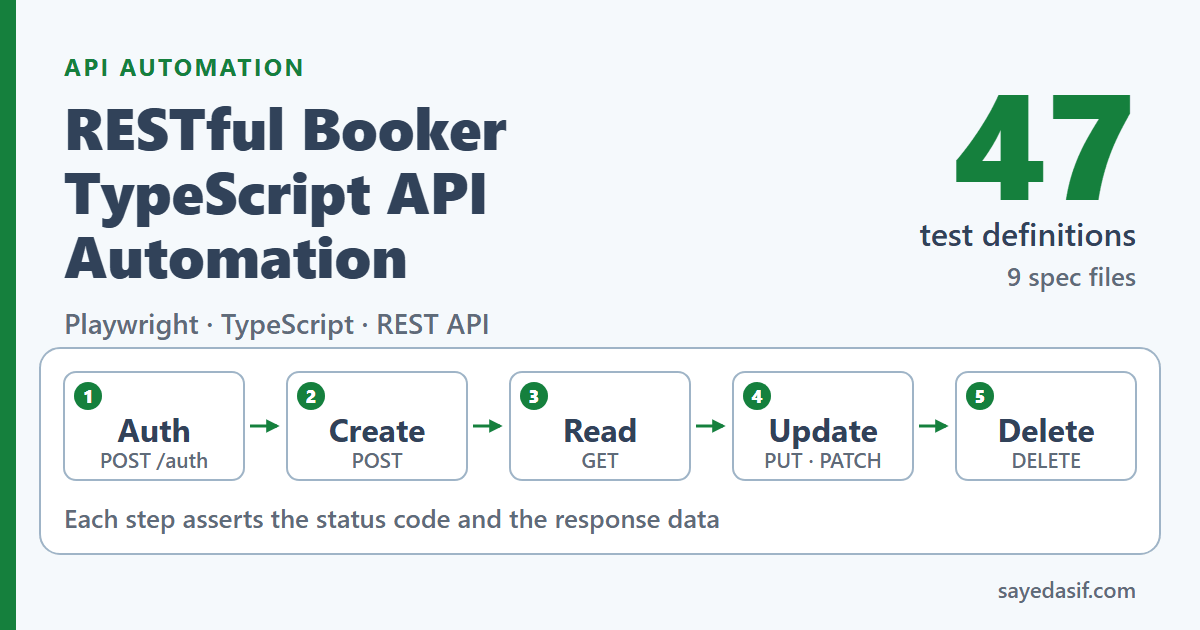
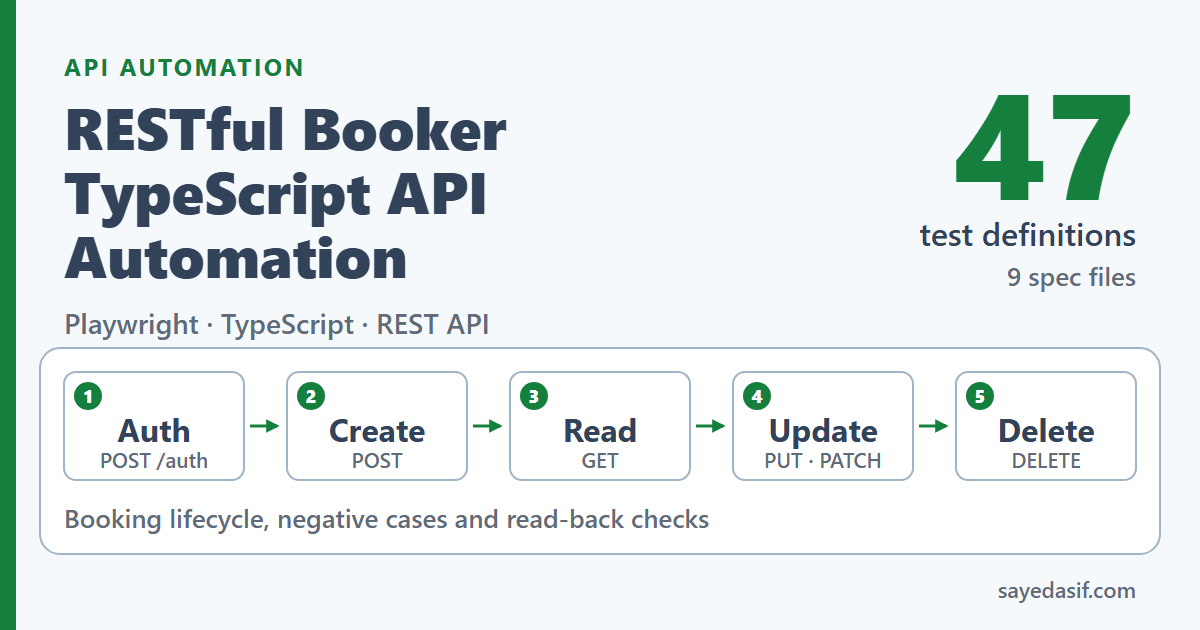
content: fix RESTful Booker cover caption; title and date consistency

Changed region(s): [[0.0617, 0.8143, 0.6167, 0.8444]]

diff --git a/projects/restful-booker-api-automation/index.html b/projects/restful-booker-api-automation/index.html
@@ -764,7 +764,7 @@
 .cv-restful-booker.cv-wide .title{font-size:58px;font-weight:800}.cv-restful-booker.cv-wide .count{fill:var(--cv-accent);font-size:150px;font-weight:800}
 .cv-restful-booker.cv-wide .countl{font-size:32px}.cv-restful-booker.cv-wide .sub{font-size:26px}.cv-restful-booker.cv-wide .stack{font-size:28px}.cv-restful-booker.cv-wide .cap{font-size:26px}.cv-restful-booker.cv-wide .dom{font-size:22px}
 .cv-restful-booker.cv-wide .nl{font-size:32px;font-weight:700}.cv-restful-booker.cv-wide .ns{font-size:21px}
-@container (max-width:559px){.cv-restful-booker.cv-wide{display:none}}</style><defs><marker id="cv-restful-booker-wide-a" viewBox="0 0 10 10" refX="8" refY="5" markerWidth="4.5" markerHeight="4.5" orient="auto"><path class="head" d="M0 0L10 5L0 10z"/></marker></defs><rect class="bg" width="1200" height="630"/><rect class="stripe" width="16" height="630"/><text class="eyebrow" x="64" y="76">API AUTOMATION</text><text class="title" x="64" y="150">RESTful Booker</text><text class="title" x="64" y="214">TypeScript API</text><text class="title" x="64" y="278">Automation</text><text class="stack mute" x="64" y="334">Playwright · TypeScript · REST API</text><text class="count" x="1136" y="200" text-anchor="end">47</text><text class="countl" x="1136" y="246" text-anchor="end">test definitions</text><text class="sub mute" x="1136" y="286" text-anchor="end">9 spec files</text><rect class="panel" x="40" y="348" width="1120" height="206" rx="20"/><rect class="node" x="64" y="372" width="180" height="108" rx="12"/><circle class="badge" cx="88" cy="396" r="14"/><text class="num" x="88" y="396" text-anchor="middle" dominant-baseline="central">1</text><text class="nl" x="154" y="442" text-anchor="middle">Auth</text><text class="ns mute" x="154" y="468" text-anchor="middle">POST /auth</text><path class="arrow" d="M250 426H277" marker-end="url(#cv-restful-booker-wide-a)"/><rect class="node" x="287" y="372" width="180" height="108" rx="12"/><circle class="badge" cx="311" cy="396" r="14"/><text class="num" x="311" y="396" text-anchor="middle" dominant-baseline="central">2</text><text class="nl" x="377" y="442" text-anchor="middle">Create</text><text class="ns mute" x="377" y="468" text-anchor="middle">POST</text><path class="arrow" d="M473 426H500" marker-end="url(#cv-restful-booker-wide-a)"/><rect class="node" x="510" y="372" width="180" height="108" rx="12"/><circle class="badge" cx="534" cy="396" r="14"/><text class="num" x="534" y="396" text-anchor="middle" dominant-baseline="central">3</text><text class="nl" x="600" y="442" text-anchor="middle">Read</text><text class="ns mute" x="600" y="468" text-anchor="middle">GET</text><path class="arrow" d="M696 426H723" marker-end="url(#cv-restful-booker-wide-a)"/><rect class="node" x="733" y="372" width="180" height="108" rx="12"/><circle class="badge" cx="757" cy="396" r="14"/><text class="num" x="757" y="396" text-anchor="middle" dominant-baseline="central">4</text><text class="nl" x="823" y="442" text-anchor="middle">Update</text><text class="ns mute" x="823" y="468" text-anchor="middle">PUT · PATCH</text><path class="arrow" d="M919 426H946" marker-end="url(#cv-restful-booker-wide-a)"/><rect class="node" x="956" y="372" width="180" height="108" rx="12"/><circle class="badge" cx="980" cy="396" r="14"/><text class="num" x="980" y="396" text-anchor="middle" dominant-baseline="central">5</text><text class="nl" x="1046" y="442" text-anchor="middle">Delete</text><text class="ns mute" x="1046" y="468" text-anchor="middle">DELETE</text><text class="cap mute" x="64" y="528">Each step asserts the status code and the response data</text><text class="dom mute" x="1136" y="598" text-anchor="end">sayedasif.com</text></svg><svg class="cv cv-restful-booker cv-narrow" viewBox="0 0 640 604" role="img" aria-labelledby="cv-restful-booker-narrow-t cv-restful-booker-narrow-d" xmlns="http://www.w3.org/2000/svg" focusable="false"><title id="cv-restful-booker-narrow-t">RESTful Booker TypeScript API Automation: project cover</title><desc id="cv-restful-booker-narrow-d">Cover for RESTful Booker TypeScript API Automation: 47 test definitions (9 spec files). Booking lifecycle covered by the suite: authenticate, create, read, update with PUT and PATCH, delete. Built with Playwright, TypeScript, REST API.</desc><style>:where(.cv){font-family:Inter,"Segoe UI",Roboto,Helvetica,Arial,sans-serif;--cv-bg:#f5f9fc;--cv-card:#fff;--cv-line:#9fb4c7;--cv-fg:#314259;--cv-mute:#5f6b79;--cv-on:#fff}
+@container (max-width:559px){.cv-restful-booker.cv-wide{display:none}}</style><defs><marker id="cv-restful-booker-wide-a" viewBox="0 0 10 10" refX="8" refY="5" markerWidth="4.5" markerHeight="4.5" orient="auto"><path class="head" d="M0 0L10 5L0 10z"/></marker></defs><rect class="bg" width="1200" height="630"/><rect class="stripe" width="16" height="630"/><text class="eyebrow" x="64" y="76">API AUTOMATION</text><text class="title" x="64" y="150">RESTful Booker</text><text class="title" x="64" y="214">TypeScript API</text><text class="title" x="64" y="278">Automation</text><text class="stack mute" x="64" y="334">Playwright · TypeScript · REST API</text><text class="count" x="1136" y="200" text-anchor="end">47</text><text class="countl" x="1136" y="246" text-anchor="end">test definitions</text><text class="sub mute" x="1136" y="286" text-anchor="end">9 spec files</text><rect class="panel" x="40" y="348" width="1120" height="206" rx="20"/><rect class="node" x="64" y="372" width="180" height="108" rx="12"/><circle class="badge" cx="88" cy="396" r="14"/><text class="num" x="88" y="396" text-anchor="middle" dominant-baseline="central">1</text><text class="nl" x="154" y="442" text-anchor="middle">Auth</text><text class="ns mute" x="154" y="468" text-anchor="middle">POST /auth</text><path class="arrow" d="M250 426H277" marker-end="url(#cv-restful-booker-wide-a)"/><rect class="node" x="287" y="372" width="180" height="108" rx="12"/><circle class="badge" cx="311" cy="396" r="14"/><text class="num" x="311" y="396" text-anchor="middle" dominant-baseline="central">2</text><text class="nl" x="377" y="442" text-anchor="middle">Create</text><text class="ns mute" x="377" y="468" text-anchor="middle">POST</text><path class="arrow" d="M473 426H500" marker-end="url(#cv-restful-booker-wide-a)"/><rect class="node" x="510" y="372" width="180" height="108" rx="12"/><circle class="badge" cx="534" cy="396" r="14"/><text class="num" x="534" y="396" text-anchor="middle" dominant-baseline="central">3</text><text class="nl" x="600" y="442" text-anchor="middle">Read</text><text class="ns mute" x="600" y="468" text-anchor="middle">GET</text><path class="arrow" d="M696 426H723" marker-end="url(#cv-restful-booker-wide-a)"/><rect class="node" x="733" y="372" width="180" height="108" rx="12"/><circle class="badge" cx="757" cy="396" r="14"/><text class="num" x="757" y="396" text-anchor="middle" dominant-baseline="central">4</text><text class="nl" x="823" y="442" text-anchor="middle">Update</text><text class="ns mute" x="823" y="468" text-anchor="middle">PUT · PATCH</text><path class="arrow" d="M919 426H946" marker-end="url(#cv-restful-booker-wide-a)"/><rect class="node" x="956" y="372" width="180" height="108" rx="12"/><circle class="badge" cx="980" cy="396" r="14"/><text class="num" x="980" y="396" text-anchor="middle" dominant-baseline="central">5</text><text class="nl" x="1046" y="442" text-anchor="middle">Delete</text><text class="ns mute" x="1046" y="468" text-anchor="middle">DELETE</text><text class="cap mute" x="64" y="528">Booking lifecycle, negative cases and read-back checks</text><text class="dom mute" x="1136" y="598" text-anchor="end">sayedasif.com</text></svg><svg class="cv cv-restful-booker cv-narrow" viewBox="0 0 640 604" role="img" aria-labelledby="cv-restful-booker-narrow-t cv-restful-booker-narrow-d" xmlns="http://www.w3.org/2000/svg" focusable="false"><title id="cv-restful-booker-narrow-t">RESTful Booker TypeScript API Automation: project cover</title><desc id="cv-restful-booker-narrow-d">Cover for RESTful Booker TypeScript API Automation: 47 test definitions (9 spec files). Booking lifecycle covered by the suite: authenticate, create, read, update with PUT and PATCH, delete. Built with Playwright, TypeScript, REST API.</desc><style>:where(.cv){font-family:Inter,"Segoe UI",Roboto,Helvetica,Arial,sans-serif;--cv-bg:#f5f9fc;--cv-card:#fff;--cv-line:#9fb4c7;--cv-fg:#314259;--cv-mute:#5f6b79;--cv-on:#fff}
 :where(.cv-restful-booker){--cv-accent:#15803d;--cv-soft:#dcfce7}
 @supports (color:light-dark(#000,#fff)){:where(.cv){--cv-bg:light-dark(#f5f9fc,#0f1b2d);--cv-card:light-dark(#fff,#17263b);--cv-line:light-dark(#9fb4c7,#5a7596);--cv-fg:light-dark(#314259,#e8eef5);--cv-mute:light-dark(#5f6b79,#a9b8c9);--cv-on:light-dark(#fff,#0f1b2d)}:where(.cv-restful-booker){--cv-accent:light-dark(#15803d,#4ade80);--cv-soft:light-dark(#dcfce7,#10331f)}}
 .cv-restful-booker.cv-narrow{display:block;width:100%;height:auto}
@@ -1068,7 +1068,7 @@
                         </li>
                         <li style="padding: 8px 0; padding-left: 28px; position: relative; color: var(--text);">
                             <span aria-hidden="true" style="position: absolute; left: 0; color: var(--brand-accent-text); font-weight: 800;">✓</span>
-                            <strong>Meaningful Assertions</strong> — Status codes, structure, data, persistence validation
+                            <strong>Assertions</strong> — Status codes, response fields and a read-back after writes. Three negative tests cannot fail and the delete test checks only that the reply is truthy (see Negative Testing below).
                         </li>
                     </ul>
                 </div>

diff --git a/index.html b/index.html
@@ -1181,7 +1181,7 @@
 .cv-restful-booker.cv-wide .title{font-size:58px;font-weight:800}.cv-restful-booker.cv-wide .count{fill:var(--cv-accent);font-size:150px;font-weight:800}
 .cv-restful-booker.cv-wide .countl{font-size:32px}.cv-restful-booker.cv-wide .sub{font-size:26px}.cv-restful-booker.cv-wide .stack{font-size:28px}.cv-restful-booker.cv-wide .cap{font-size:26px}.cv-restful-booker.cv-wide .dom{font-size:22px}
 .cv-restful-booker.cv-wide .nl{font-size:32px;font-weight:700}.cv-restful-booker.cv-wide .ns{font-size:21px}
-@container (max-width:559px){.cv-restful-booker.cv-wide{display:none}}</style><defs><marker id="cv-restful-booker-wide-a" viewBox="0 0 10 10" refX="8" refY="5" markerWidth="4.5" markerHeight="4.5" orient="auto"><path class="head" d="M0 0L10 5L0 10z"/></marker></defs><rect class="bg" width="1200" height="630"/><rect class="stripe" width="16" height="630"/><text class="eyebrow" x="64" y="76">API AUTOMATION</text><text class="title" x="64" y="150">RESTful Booker</text><text class="title" x="64" y="214">TypeScript API</text><text class="title" x="64" y="278">Automation</text><text class="stack mute" x="64" y="334">Playwright · TypeScript · REST API</text><text class="count" x="1136" y="200" text-anchor="end">47</text><text class="countl" x="1136" y="246" text-anchor="end">test definitions</text><text class="sub mute" x="1136" y="286" text-anchor="end">9 spec files</text><rect class="panel" x="40" y="348" width="1120" height="206" rx="20"/><rect class="node" x="64" y="372" width="180" height="108" rx="12"/><circle class="badge" cx="88" cy="396" r="14"/><text class="num" x="88" y="396" text-anchor="middle" dominant-baseline="central">1</text><text class="nl" x="154" y="442" text-anchor="middle">Auth</text><text class="ns mute" x="154" y="468" text-anchor="middle">POST /auth</text><path class="arrow" d="M250 426H277" marker-end="url(#cv-restful-booker-wide-a)"/><rect class="node" x="287" y="372" width="180" height="108" rx="12"/><circle class="badge" cx="311" cy="396" r="14"/><text class="num" x="311" y="396" text-anchor="middle" dominant-baseline="central">2</text><text class="nl" x="377" y="442" text-anchor="middle">Create</text><text class="ns mute" x="377" y="468" text-anchor="middle">POST</text><path class="arrow" d="M473 426H500" marker-end="url(#cv-restful-booker-wide-a)"/><rect class="node" x="510" y="372" width="180" height="108" rx="12"/><circle class="badge" cx="534" cy="396" r="14"/><text class="num" x="534" y="396" text-anchor="middle" dominant-baseline="central">3</text><text class="nl" x="600" y="442" text-anchor="middle">Read</text><text class="ns mute" x="600" y="468" text-anchor="middle">GET</text><path class="arrow" d="M696 426H723" marker-end="url(#cv-restful-booker-wide-a)"/><rect class="node" x="733" y="372" width="180" height="108" rx="12"/><circle class="badge" cx="757" cy="396" r="14"/><text class="num" x="757" y="396" text-anchor="middle" dominant-baseline="central">4</text><text class="nl" x="823" y="442" text-anchor="middle">Update</text><text class="ns mute" x="823" y="468" text-anchor="middle">PUT · PATCH</text><path class="arrow" d="M919 426H946" marker-end="url(#cv-restful-booker-wide-a)"/><rect class="node" x="956" y="372" width="180" height="108" rx="12"/><circle class="badge" cx="980" cy="396" r="14"/><text class="num" x="980" y="396" text-anchor="middle" dominant-baseline="central">5</text><text class="nl" x="1046" y="442" text-anchor="middle">Delete</text><text class="ns mute" x="1046" y="468" text-anchor="middle">DELETE</text><text class="cap mute" x="64" y="528">Each step asserts the status code and the response data</text><text class="dom mute" x="1136" y="598" text-anchor="end">sayedasif.com</text></svg><svg class="cv cv-restful-booker cv-narrow" viewBox="0 0 640 604" role="img" aria-labelledby="cv-restful-booker-narrow-t cv-restful-booker-narrow-d" xmlns="http://www.w3.org/2000/svg" focusable="false"><title id="cv-restful-booker-narrow-t">RESTful Booker TypeScript API Automation: project cover</title><desc id="cv-restful-booker-narrow-d">Cover for RESTful Booker TypeScript API Automation: 47 test definitions (9 spec files). Booking lifecycle covered by the suite: authenticate, create, read, update with PUT and PATCH, delete. Built with Playwright, TypeScript, REST API.</desc><style>:where(.cv){font-family:Inter,"Segoe UI",Roboto,Helvetica,Arial,sans-serif;--cv-bg:#f5f9fc;--cv-card:#fff;--cv-line:#9fb4c7;--cv-fg:#314259;--cv-mute:#5f6b79;--cv-on:#fff}
+@container (max-width:559px){.cv-restful-booker.cv-wide{display:none}}</style><defs><marker id="cv-restful-booker-wide-a" viewBox="0 0 10 10" refX="8" refY="5" markerWidth="4.5" markerHeight="4.5" orient="auto"><path class="head" d="M0 0L10 5L0 10z"/></marker></defs><rect class="bg" width="1200" height="630"/><rect class="stripe" width="16" height="630"/><text class="eyebrow" x="64" y="76">API AUTOMATION</text><text class="title" x="64" y="150">RESTful Booker</text><text class="title" x="64" y="214">TypeScript API</text><text class="title" x="64" y="278">Automation</text><text class="stack mute" x="64" y="334">Playwright · TypeScript · REST API</text><text class="count" x="1136" y="200" text-anchor="end">47</text><text class="countl" x="1136" y="246" text-anchor="end">test definitions</text><text class="sub mute" x="1136" y="286" text-anchor="end">9 spec files</text><rect class="panel" x="40" y="348" width="1120" height="206" rx="20"/><rect class="node" x="64" y="372" width="180" height="108" rx="12"/><circle class="badge" cx="88" cy="396" r="14"/><text class="num" x="88" y="396" text-anchor="middle" dominant-baseline="central">1</text><text class="nl" x="154" y="442" text-anchor="middle">Auth</text><text class="ns mute" x="154" y="468" text-anchor="middle">POST /auth</text><path class="arrow" d="M250 426H277" marker-end="url(#cv-restful-booker-wide-a)"/><rect class="node" x="287" y="372" width="180" height="108" rx="12"/><circle class="badge" cx="311" cy="396" r="14"/><text class="num" x="311" y="396" text-anchor="middle" dominant-baseline="central">2</text><text class="nl" x="377" y="442" text-anchor="middle">Create</text><text class="ns mute" x="377" y="468" text-anchor="middle">POST</text><path class="arrow" d="M473 426H500" marker-end="url(#cv-restful-booker-wide-a)"/><rect class="node" x="510" y="372" width="180" height="108" rx="12"/><circle class="badge" cx="534" cy="396" r="14"/><text class="num" x="534" y="396" text-anchor="middle" dominant-baseline="central">3</text><text class="nl" x="600" y="442" text-anchor="middle">Read</text><text class="ns mute" x="600" y="468" text-anchor="middle">GET</text><path class="arrow" d="M696 426H723" marker-end="url(#cv-restful-booker-wide-a)"/><rect class="node" x="733" y="372" width="180" height="108" rx="12"/><circle class="badge" cx="757" cy="396" r="14"/><text class="num" x="757" y="396" text-anchor="middle" dominant-baseline="central">4</text><text class="nl" x="823" y="442" text-anchor="middle">Update</text><text class="ns mute" x="823" y="468" text-anchor="middle">PUT · PATCH</text><path class="arrow" d="M919 426H946" marker-end="url(#cv-restful-booker-wide-a)"/><rect class="node" x="956" y="372" width="180" height="108" rx="12"/><circle class="badge" cx="980" cy="396" r="14"/><text class="num" x="980" y="396" text-anchor="middle" dominant-baseline="central">5</text><text class="nl" x="1046" y="442" text-anchor="middle">Delete</text><text class="ns mute" x="1046" y="468" text-anchor="middle">DELETE</text><text class="cap mute" x="64" y="528">Booking lifecycle, negative cases and read-back checks</text><text class="dom mute" x="1136" y="598" text-anchor="end">sayedasif.com</text></svg><svg class="cv cv-restful-booker cv-narrow" viewBox="0 0 640 604" role="img" aria-labelledby="cv-restful-booker-narrow-t cv-restful-booker-narrow-d" xmlns="http://www.w3.org/2000/svg" focusable="false"><title id="cv-restful-booker-narrow-t">RESTful Booker TypeScript API Automation: project cover</title><desc id="cv-restful-booker-narrow-d">Cover for RESTful Booker TypeScript API Automation: 47 test definitions (9 spec files). Booking lifecycle covered by the suite: authenticate, create, read, update with PUT and PATCH, delete. Built with Playwright, TypeScript, REST API.</desc><style>:where(.cv){font-family:Inter,"Segoe UI",Roboto,Helvetica,Arial,sans-serif;--cv-bg:#f5f9fc;--cv-card:#fff;--cv-line:#9fb4c7;--cv-fg:#314259;--cv-mute:#5f6b79;--cv-on:#fff}
 :where(.cv-restful-booker){--cv-accent:#15803d;--cv-soft:#dcfce7}
 @supports (color:light-dark(#000,#fff)){:where(.cv){--cv-bg:light-dark(#f5f9fc,#0f1b2d);--cv-card:light-dark(#fff,#17263b);--cv-line:light-dark(#9fb4c7,#5a7596);--cv-fg:light-dark(#314259,#e8eef5);--cv-mute:light-dark(#5f6b79,#a9b8c9);--cv-on:light-dark(#fff,#0f1b2d)}:where(.cv-restful-booker){--cv-accent:light-dark(#15803d,#4ade80);--cv-soft:light-dark(#dcfce7,#10331f)}}
 .cv-restful-booker.cv-narrow{display:block;width:100%;height:auto}

diff --git a/proof-of-work/index.html b/proof-of-work/index.html
@@ -1183,7 +1183,7 @@
 .cv-restful-booker.cv-wide .title{font-size:58px;font-weight:800}.cv-restful-booker.cv-wide .count{fill:var(--cv-accent);font-size:150px;font-weight:800}
 .cv-restful-booker.cv-wide .countl{font-size:32px}.cv-restful-booker.cv-wide .sub{font-size:26px}.cv-restful-booker.cv-wide .stack{font-size:28px}.cv-restful-booker.cv-wide .cap{font-size:26px}.cv-restful-booker.cv-wide .dom{font-size:22px}
 .cv-restful-booker.cv-wide .nl{font-size:32px;font-weight:700}.cv-restful-booker.cv-wide .ns{font-size:21px}
-@container (max-width:559px){.cv-restful-booker.cv-wide{display:none}}</style><defs><marker id="cv-restful-booker-wide-a" viewBox="0 0 10 10" refX="8" refY="5" markerWidth="4.5" markerHeight="4.5" orient="auto"><path class="head" d="M0 0L10 5L0 10z"/></marker></defs><rect class="bg" width="1200" height="630"/><rect class="stripe" width="16" height="630"/><text class="eyebrow" x="64" y="76">API AUTOMATION</text><text class="title" x="64" y="150">RESTful Booker</text><text class="title" x="64" y="214">TypeScript API</text><text class="title" x="64" y="278">Automation</text><text class="stack mute" x="64" y="334">Playwright · TypeScript · REST API</text><text class="count" x="1136" y="200" text-anchor="end">47</text><text class="countl" x="1136" y="246" text-anchor="end">test definitions</text><text class="sub mute" x="1136" y="286" text-anchor="end">9 spec files</text><rect class="panel" x="40" y="348" width="1120" height="206" rx="20"/><rect class="node" x="64" y="372" width="180" height="108" rx="12"/><circle class="badge" cx="88" cy="396" r="14"/><text class="num" x="88" y="396" text-anchor="middle" dominant-baseline="central">1</text><text class="nl" x="154" y="442" text-anchor="middle">Auth</text><text class="ns mute" x="154" y="468" text-anchor="middle">POST /auth</text><path class="arrow" d="M250 426H277" marker-end="url(#cv-restful-booker-wide-a)"/><rect class="node" x="287" y="372" width="180" height="108" rx="12"/><circle class="badge" cx="311" cy="396" r="14"/><text class="num" x="311" y="396" text-anchor="middle" dominant-baseline="central">2</text><text class="nl" x="377" y="442" text-anchor="middle">Create</text><text class="ns mute" x="377" y="468" text-anchor="middle">POST</text><path class="arrow" d="M473 426H500" marker-end="url(#cv-restful-booker-wide-a)"/><rect class="node" x="510" y="372" width="180" height="108" rx="12"/><circle class="badge" cx="534" cy="396" r="14"/><text class="num" x="534" y="396" text-anchor="middle" dominant-baseline="central">3</text><text class="nl" x="600" y="442" text-anchor="middle">Read</text><text class="ns mute" x="600" y="468" text-anchor="middle">GET</text><path class="arrow" d="M696 426H723" marker-end="url(#cv-restful-booker-wide-a)"/><rect class="node" x="733" y="372" width="180" height="108" rx="12"/><circle class="badge" cx="757" cy="396" r="14"/><text class="num" x="757" y="396" text-anchor="middle" dominant-baseline="central">4</text><text class="nl" x="823" y="442" text-anchor="middle">Update</text><text class="ns mute" x="823" y="468" text-anchor="middle">PUT · PATCH</text><path class="arrow" d="M919 426H946" marker-end="url(#cv-restful-booker-wide-a)"/><rect class="node" x="956" y="372" width="180" height="108" rx="12"/><circle class="badge" cx="980" cy="396" r="14"/><text class="num" x="980" y="396" text-anchor="middle" dominant-baseline="central">5</text><text class="nl" x="1046" y="442" text-anchor="middle">Delete</text><text class="ns mute" x="1046" y="468" text-anchor="middle">DELETE</text><text class="cap mute" x="64" y="528">Each step asserts the status code and the response data</text><text class="dom mute" x="1136" y="598" text-anchor="end">sayedasif.com</text></svg><svg class="cv cv-restful-booker cv-narrow" viewBox="0 0 640 604" role="img" aria-labelledby="cv-restful-booker-narrow-t cv-restful-booker-narrow-d" xmlns="http://www.w3.org/2000/svg" focusable="false"><title id="cv-restful-booker-narrow-t">RESTful Booker TypeScript API Automation: project cover</title><desc id="cv-restful-booker-narrow-d">Cover for RESTful Booker TypeScript API Automation: 47 test definitions (9 spec files). Booking lifecycle covered by the suite: authenticate, create, read, update with PUT and PATCH, delete. Built with Playwright, TypeScript, REST API.</desc><style>:where(.cv){font-family:Inter,"Segoe UI",Roboto,Helvetica,Arial,sans-serif;--cv-bg:#f5f9fc;--cv-card:#fff;--cv-line:#9fb4c7;--cv-fg:#314259;--cv-mute:#5f6b79;--cv-on:#fff}
+@container (max-width:559px){.cv-restful-booker.cv-wide{display:none}}</style><defs><marker id="cv-restful-booker-wide-a" viewBox="0 0 10 10" refX="8" refY="5" markerWidth="4.5" markerHeight="4.5" orient="auto"><path class="head" d="M0 0L10 5L0 10z"/></marker></defs><rect class="bg" width="1200" height="630"/><rect class="stripe" width="16" height="630"/><text class="eyebrow" x="64" y="76">API AUTOMATION</text><text class="title" x="64" y="150">RESTful Booker</text><text class="title" x="64" y="214">TypeScript API</text><text class="title" x="64" y="278">Automation</text><text class="stack mute" x="64" y="334">Playwright · TypeScript · REST API</text><text class="count" x="1136" y="200" text-anchor="end">47</text><text class="countl" x="1136" y="246" text-anchor="end">test definitions</text><text class="sub mute" x="1136" y="286" text-anchor="end">9 spec files</text><rect class="panel" x="40" y="348" width="1120" height="206" rx="20"/><rect class="node" x="64" y="372" width="180" height="108" rx="12"/><circle class="badge" cx="88" cy="396" r="14"/><text class="num" x="88" y="396" text-anchor="middle" dominant-baseline="central">1</text><text class="nl" x="154" y="442" text-anchor="middle">Auth</text><text class="ns mute" x="154" y="468" text-anchor="middle">POST /auth</text><path class="arrow" d="M250 426H277" marker-end="url(#cv-restful-booker-wide-a)"/><rect class="node" x="287" y="372" width="180" height="108" rx="12"/><circle class="badge" cx="311" cy="396" r="14"/><text class="num" x="311" y="396" text-anchor="middle" dominant-baseline="central">2</text><text class="nl" x="377" y="442" text-anchor="middle">Create</text><text class="ns mute" x="377" y="468" text-anchor="middle">POST</text><path class="arrow" d="M473 426H500" marker-end="url(#cv-restful-booker-wide-a)"/><rect class="node" x="510" y="372" width="180" height="108" rx="12"/><circle class="badge" cx="534" cy="396" r="14"/><text class="num" x="534" y="396" text-anchor="middle" dominant-baseline="central">3</text><text class="nl" x="600" y="442" text-anchor="middle">Read</text><text class="ns mute" x="600" y="468" text-anchor="middle">GET</text><path class="arrow" d="M696 426H723" marker-end="url(#cv-restful-booker-wide-a)"/><rect class="node" x="733" y="372" width="180" height="108" rx="12"/><circle class="badge" cx="757" cy="396" r="14"/><text class="num" x="757" y="396" text-anchor="middle" dominant-baseline="central">4</text><text class="nl" x="823" y="442" text-anchor="middle">Update</text><text class="ns mute" x="823" y="468" text-anchor="middle">PUT · PATCH</text><path class="arrow" d="M919 426H946" marker-end="url(#cv-restful-booker-wide-a)"/><rect class="node" x="956" y="372" width="180" height="108" rx="12"/><circle class="badge" cx="980" cy="396" r="14"/><text class="num" x="980" y="396" text-anchor="middle" dominant-baseline="central">5</text><text class="nl" x="1046" y="442" text-anchor="middle">Delete</text><text class="ns mute" x="1046" y="468" text-anchor="middle">DELETE</text><text class="cap mute" x="64" y="528">Booking lifecycle, negative cases and read-back checks</text><text class="dom mute" x="1136" y="598" text-anchor="end">sayedasif.com</text></svg><svg class="cv cv-restful-booker cv-narrow" viewBox="0 0 640 604" role="img" aria-labelledby="cv-restful-booker-narrow-t cv-restful-booker-narrow-d" xmlns="http://www.w3.org/2000/svg" focusable="false"><title id="cv-restful-booker-narrow-t">RESTful Booker TypeScript API Automation: project cover</title><desc id="cv-restful-booker-narrow-d">Cover for RESTful Booker TypeScript API Automation: 47 test definitions (9 spec files). Booking lifecycle covered by the suite: authenticate, create, read, update with PUT and PATCH, delete. Built with Playwright, TypeScript, REST API.</desc><style>:where(.cv){font-family:Inter,"Segoe UI",Roboto,Helvetica,Arial,sans-serif;--cv-bg:#f5f9fc;--cv-card:#fff;--cv-line:#9fb4c7;--cv-fg:#314259;--cv-mute:#5f6b79;--cv-on:#fff}
 :where(.cv-restful-booker){--cv-accent:#15803d;--cv-soft:#dcfce7}
 @supports (color:light-dark(#000,#fff)){:where(.cv){--cv-bg:light-dark(#f5f9fc,#0f1b2d);--cv-card:light-dark(#fff,#17263b);--cv-line:light-dark(#9fb4c7,#5a7596);--cv-fg:light-dark(#314259,#e8eef5);--cv-mute:light-dark(#5f6b79,#a9b8c9);--cv-on:light-dark(#fff,#0f1b2d)}:where(.cv-restful-booker){--cv-accent:light-dark(#15803d,#4ade80);--cv-soft:light-dark(#dcfce7,#10331f)}}
 .cv-restful-booker.cv-narrow{display:block;width:100%;height:auto}

diff --git a/api-testing/index.html b/api-testing/index.html
@@ -4,11 +4,11 @@
     <meta charset="UTF-8">
     <meta name="viewport" content="width=device-width, initial-scale=1.0">
 
-    <title>Playwright API Testing with TypeScript | Sayed Asif</title>
+    <title>Playwright API Testing: Risk to Evidence Map | Sayed Asif</title>
 
     <meta
         name="description"
-        content="How I test APIs with Playwright and TypeScript: each API risk mapped to the public tests that cover it, with pinned code links and what is not tested."
+        content="How I test APIs with Playwright: each API risk mapped to the public tests that cover it, with pinned code links and what is not tested."
     >
 
     <meta name="author" content="Sayed Asif">
@@ -18,19 +18,19 @@
     <meta name="theme-color" content="#00baf2">
 
     <meta property="og:type" content="article">
-    <meta property="og:title" content="Playwright API Testing with TypeScript | Sayed Asif">
+    <meta property="og:title" content="Playwright API Testing: Risk to Evidence Map | Sayed Asif">
     <meta property="og:description" content="An API risk to evidence map: for each risk I check on an API, the tests in my public repositories that cover it, or a plain note that nothing does.">
     <meta property="og:url" content="https://sayedasif.com/api-testing/">
     <meta property="og:image" content="https://sayedasif.com/image/og/api-testing.png">
     <meta property="og:image:width" content="1200">
     <meta property="og:image:height" content="630">
     <meta property="og:image:type" content="image/png">
-    <meta property="og:image:alt" content="API Testing with Playwright and TypeScript: an API risk to evidence map. Playwright, TypeScript, JavaScript, REST APIs.">
+    <meta property="og:image:alt" content="API Testing with Playwright: an API risk to evidence map. Playwright, TypeScript, JavaScript, REST APIs.">
     <meta name="twitter:image" content="https://sayedasif.com/image/og/api-testing.png">
     <meta property="og:site_name" content="Sayed Asif">
 
     <meta name="twitter:card" content="summary_large_image">
-    <meta name="twitter:title" content="Playwright API Testing with TypeScript | Sayed Asif">
+    <meta name="twitter:title" content="Playwright API Testing: Risk to Evidence Map | Sayed Asif">
     <meta name="twitter:description" content="Each API risk I check, mapped to the public Playwright tests that cover it, with code linked at pinned commits and the gaps stated.">
 
     <link rel="icon" type="image/png" href="/favicon.png">
@@ -49,7 +49,7 @@
             },
             {
                 "@type": "TechArticle",
-                "headline": "Playwright API testing with TypeScript: an API risk to evidence map",
+                "headline": "Playwright API testing: an API risk to evidence map",
                 "description": "Ten API risks, each mapped to the Playwright tests in three independent public repositories that cover it, with code linked at pinned commits and the gaps stated.",
                 "image": "https://sayedasif.com/image/og/api-testing.png",
                 "datePublished": "2026-10-22",
@@ -423,7 +423,7 @@
         <section class="hero">
             <div class="container">
                 <p class="hero-label">Evidence map</p>
-                <h1>Playwright API testing with TypeScript<span>An API risk to evidence map</span></h1>
+                <h1>Playwright API testing<span>An API risk to evidence map</span></h1>
                 <p class="hero-subtitle">How I test an API, shown through tests you can open.</p>
                 <p class="hero-description">
                     Ten risks I check on any API. For each one: the tests in my public repositories that cover it,

diff --git a/blog/api-testing-best-practices/index.html b/blog/api-testing-best-practices/index.html
@@ -359,7 +359,7 @@
                 <div class="article-meta">
                     <div class="article-meta-item">
                         <i class="ic" aria-hidden="true"><svg focusable="false" width="0.875em" height="1em"><use href="/assets/icons.svg#calendar"/></svg></i>
-                        <span>Published September 11, 2026 &middot; Rewritten October 16, 2026</span>
+                        <span>Published September 11, 2026 &middot; Rewritten October 16, 2026 &middot; Updated October 22, 2026</span>
                     </div>
                     <div class="article-meta-item">
                         <i class="ic" aria-hidden="true"><svg focusable="false" width="0.875em" height="1em"><use href="/assets/icons.svg#user"/></svg></i>
